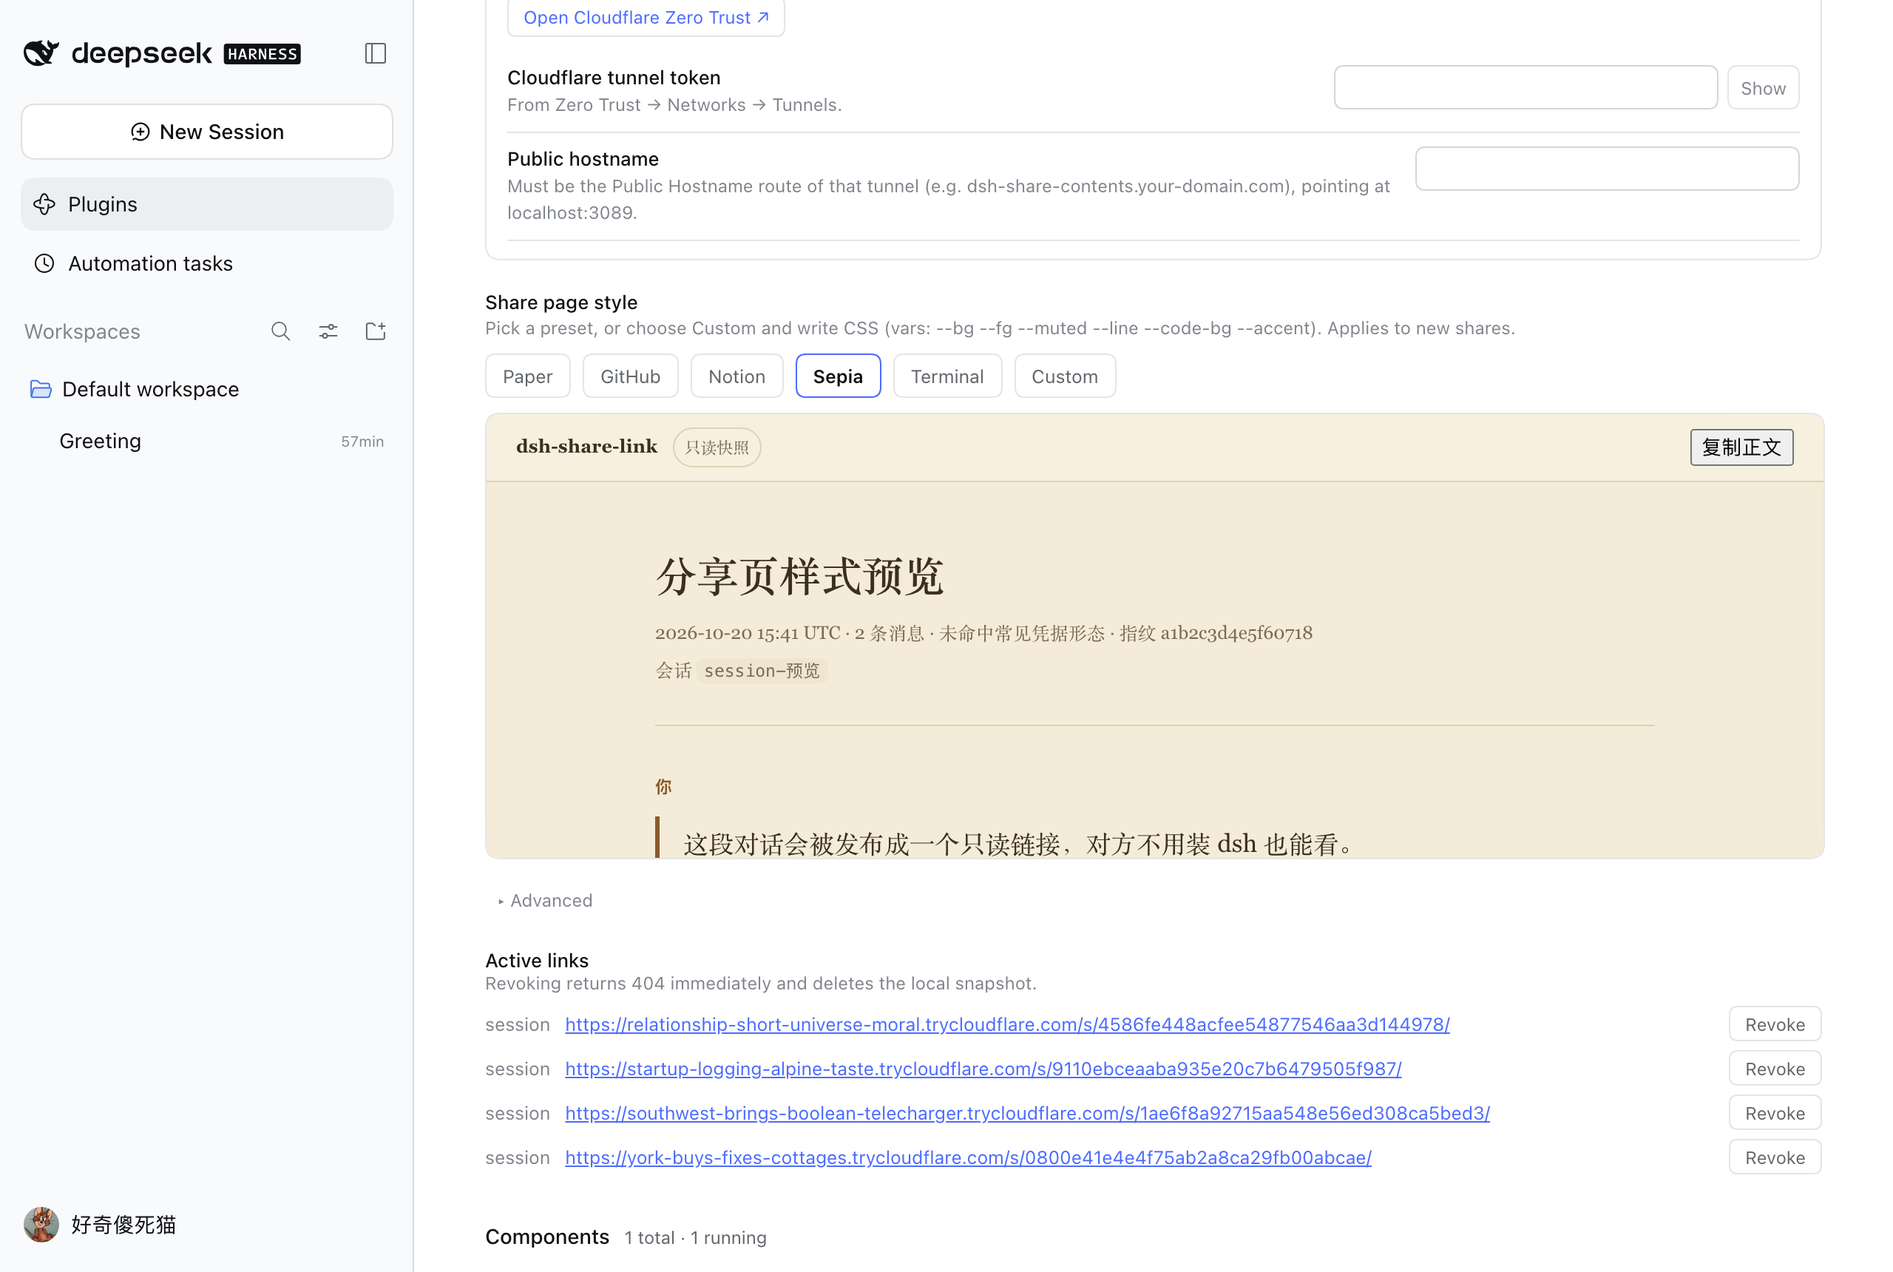
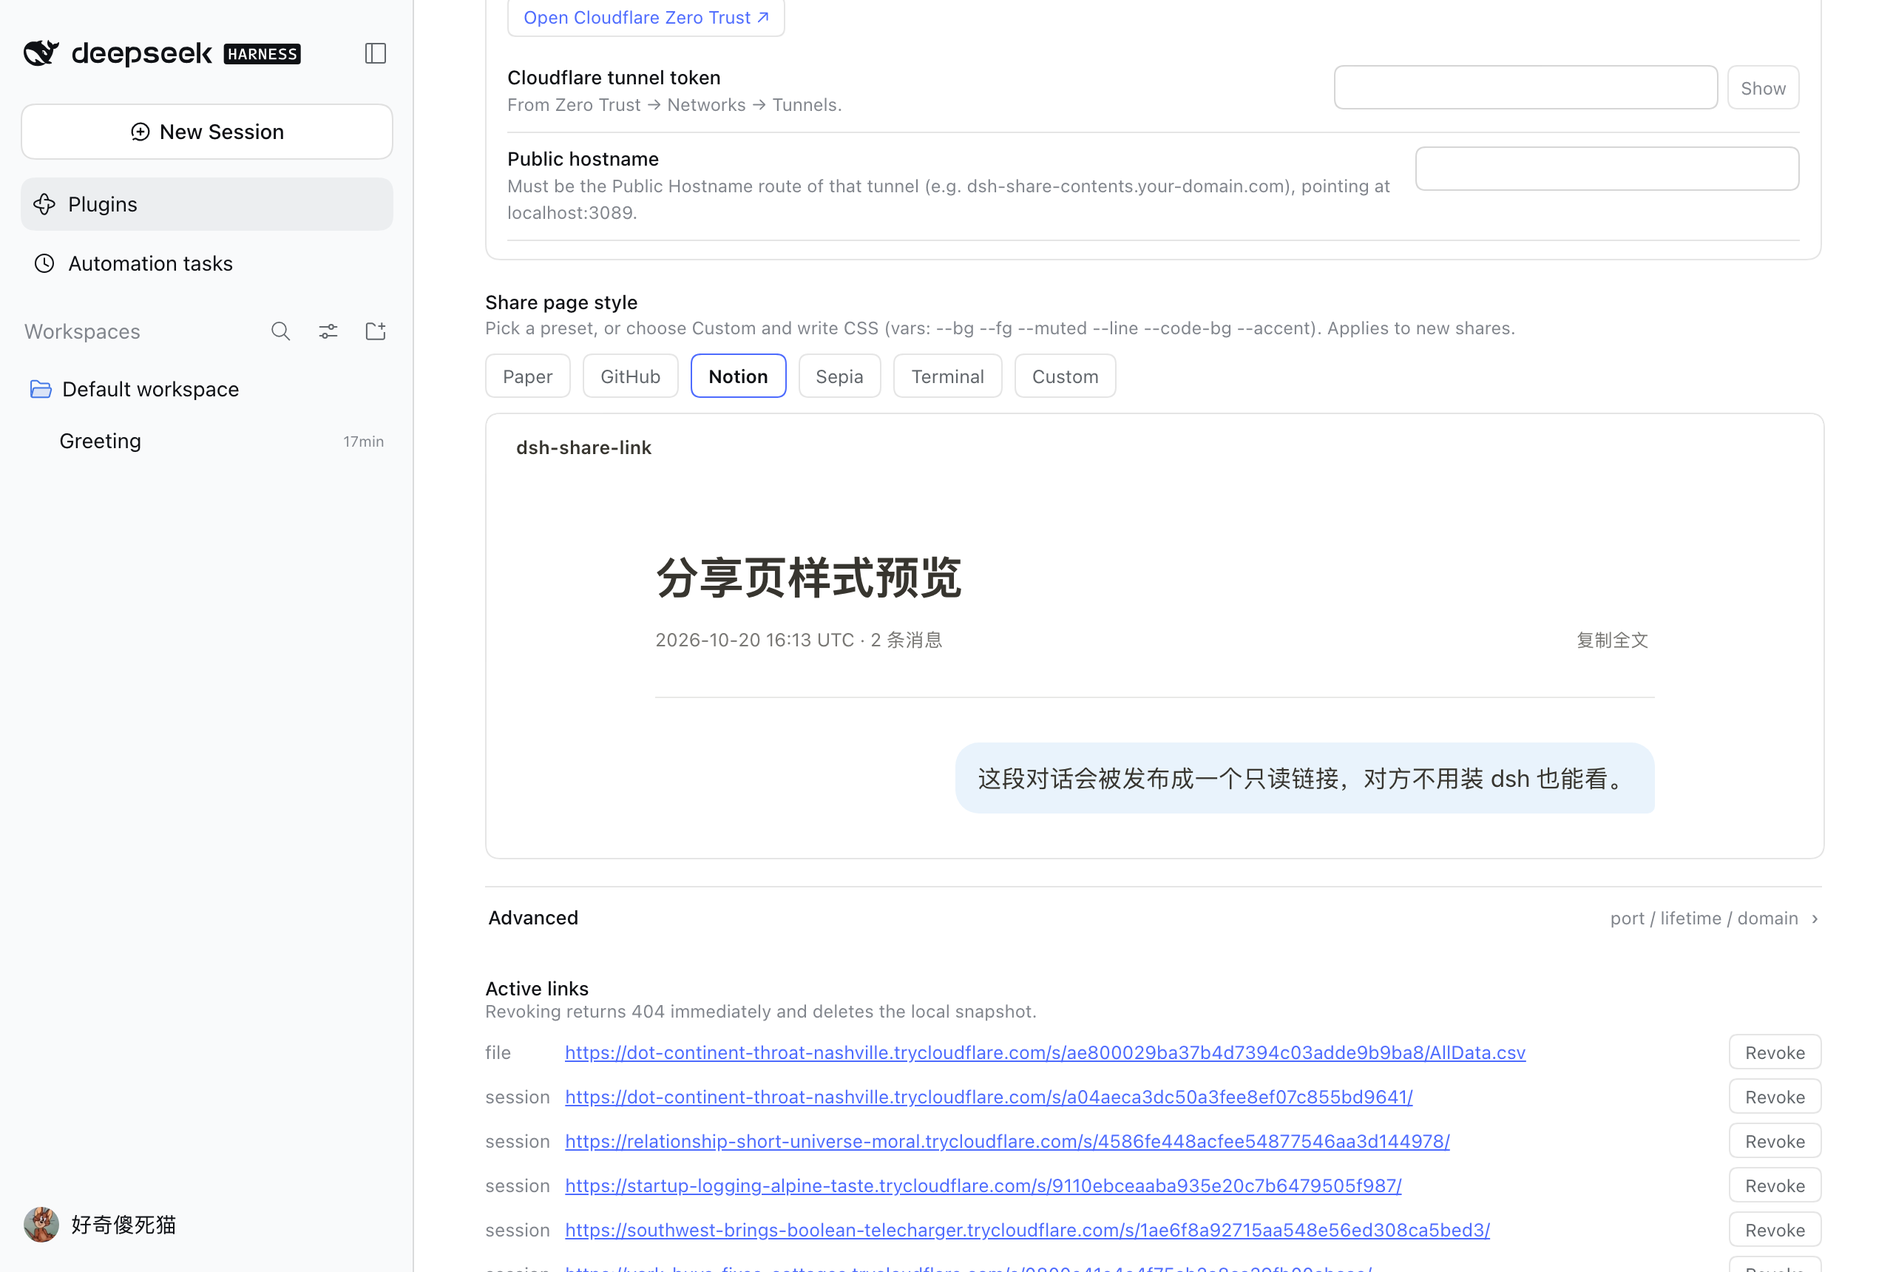
chore(release): 发布前整理
- 新增 LICENSE（MIT）与 package.json 发布元数据（keywords/repository/homepage/bugs）
- README 按发布规范重写：安装优先 GUI、五张实拍截图、通道/配置/安全/兼容性表格
- 截图全部用当前构建重拍，删除过期的 4 张
- 门禁：build → pack（1.3MB）→ 全新 DSH_HOME 安装 → boot 0 条激活失败

diff --git a/README.md b/README.md
@@ -1,157 +1,150 @@
 # dsh-share-link
 
-<p align="center">把一个产物（会话快照 / HTML / Markdown / 目录）发布成只读公网链接：一条命令出 URL，撤销即失效。</p>
+<p align="center">把一段对话或一个产物，发布成只读的公网链接——对方点开就能看，撤销后立即失效。</p>
+
+<p align="center">
+  <img alt="dsh" src="https://img.shields.io/badge/dsh-0.2.1--rc.1-blue">
+  <img alt="license" src="https://img.shields.io/badge/license-MIT-green">
+</p>
+
+## 30 秒安装
+
+**在 dsh web 里**：侧边栏 **Plugins → Add plugin**，输入 `@vlln/dsh-share-link`，点安装。
+
+**用 CLI**：
+
+```sh
+dsh plugin --profile web add @vlln/dsh-share-link
+# 装完重启 dsh web 生效
+```
+
+- **前置**：dsh `>= 0.2.0`；macOS / Linux
+- **零配置可用**：默认走云端快速隧道，首次分享会自动下载 `cloudflared`（约 50 MB，需要能访问 GitHub）
+- **卸载**：`dsh plugin --profile web remove @vlln/dsh-share-link`
+
+### 装好之后怎么确认
+
+- 侧边栏 **Plugins** 列表里出现 **Share Link**，点进去有一条绿色的 `Ready to share`
+- 打开任意会话，右上角 `···` 菜单里多一项 **分享会话**
 
 ## 为什么需要它
 
-dsh 是跑在本机的 harness，产物却经常要给别人看：一段对话要发给同事评审、一个 HTML 页面要在手机上打开、一份生成的报告要给客户。
+dsh 跑在本机，产物却经常要给外面的人看：一段对话要发给同事评审、一个 HTML 页面要在手机上打开、一份报告要给客户。
 
-现在你只有两条路，都不对：
+现在只有两条路，都不对：
 
-- **导出成文件再发**——对方收到的是附件，手机上打开体验差，也没有"同一地址随时更新"；
-- **把整个 dsh 穿透出去**——别人拿到的是你的**产品实例**（能下发指令、能看别的会话），而不是**这一个产物**。
+- **导出成文件再发**——对方拿到的是附件，手机上体验差，也没法"同一个地址随时更新"；
+- **把整个 dsh 穿透出去**——别人拿到的是你的**产品实例**（能下指令、能看别的会话），而不是**这一个产物**。
 
-这个插件补的是第三件事：**单产物 → 链接**。它只暴露一个静态目录，不代理 GUI、不提供写接口。链接的生命周期绑定在一个本地服务 + 一条 cloudflared 隧道上，进程停或点撤销，链接立刻 404。
-
-## 它长什么样
-
-会话右上角 `···` 菜单里多一项「分享会话…」（入口只有这一处，不额外占图标）；产物在文件预览的工具条上。
-
-![会话菜单里的分享项](docs/preview-menu.png)
-
-![会话分享：确认框与已生成的链接](docs/preview-session-share.png)
-
-![文件分享：把当前预览的文件发布成链接](docs/preview-file-share.png)
-
-对方打开是这样一份对话快照——**按对话排**：你的提问靠右成气泡，助手回复是正文流，每条回复下方可复制；没有多余的元信息噪音（不加载外部资源，内联脚本只服务于复制按钮；默认脱敏）：
-
-![只读快照页](docs/preview-snapshot.png)
-
-## 装
-
-```sh
-# 本地 tarball（本仓库 `pnpm build && pnpm pack` 的产物）
-dsh plugin --profile web add ./vlln-dsh-share-link-0.1.0.tgz
-
-# 发布到 npm 之后（或 git 源）
-dsh plugin --profile web add @vlln/dsh-share-link
-```
-
-装完**重启 `dsh web`** 才生效。
-
-首次分享公网链接时会自动把 `cloudflared` 下到 `$DSH_HOME/share-link/bin/`（macOS / Linux）；已有的话把它放进 `PATH` 或配置 `cloudflaredPath` 即可跳过下载。
+这个插件补的是第三件事：**单产物 → 链接**。它只暴露一个静态目录，在独立端口上跑只读服务，不代理 GUI、不提供写接口。链接的生命周期绑定在本地服务 + 一条隧道上——停服务或点撤销，链接立刻 404。
 
 ## 用起来是什么样
 
-**会话**：右上角 `···` → 「分享会话…」→ **选通道**（默认通道预选，未配好的通道置灰）→ 勾不勾"包含工具调用名称" → 生成链接。对方打开看到的是只读时间线：你的提问、助手的回答，没有工具结果正文，没有系统提示，没有其他会话。
+### 分享会话
 
-**产物**：文件预览（右侧栏）和交付物列表里的文件多一个「分享」按钮 → 直接发布这个文件。`.html` 挂在链接根路径；`.md` 会被渲染成可读页面（不是下载裸文本）；目录要求含 `index.html`。
+![会话菜单里的分享项](docs/preview-menu.png)
 
-**Agent 主动发**：对话里说"把这个页面分享出去"，agent 会调 `share_artifact`；说"把这段对话分享出去"会调 `share_session`，回复里直接给出链接和撤销指令。
+右上角 `···` → **分享会话** → 选通道 → 生成链接。
 
-生成后对话框里直接有 `Copy` / `Open` / `Revoke`：撤销是即时生效的（本地目录删掉 → 同一个 URL 立刻 404），不用去翻命令行。
+![分享弹窗](docs/preview-session-share.png)
 
-## 配置与管理：侧边栏 Plugins → Share Link
+弹窗里可以直接切换通道、选择是否保留工具调用名称；生成后能复制、打开、撤销。
 
-一个地方管完，**默认零配置可用**：
+对方打开是这样一份对话快照——你的提问靠右成气泡，助手回复是正文流，每条回复可单独复制：
 
-![设置卡：默认推荐快速隧道](docs/preview-settings.png)
+![分享页](docs/preview-snapshot.png)
 
-- 顶部一条状态：绿色「可以分享 · 默认通道」或黄色「还不能分享 · 缺什么」。
-- 「默认通道」是一个下拉框（和标签同一行），只决定**分享弹窗里预选哪个**；四个通道的配置并存，弹窗里随时换。
-- 「快速隧道」标着**推荐**：零配置，dsh 在跑就有链接。
-- 每个渠道一张可折叠的配置卡（Surge / 命名隧道），带就绪徽标；没配好的默认展开并给**编号步骤 + 官方入口**：
+### 分享产物
 
-![Surge 已就绪：什么都不用填](docs/preview-settings-surge.png)
+![文件分享](docs/preview-file-share.png)
 
-  本机跑过 `surge login`（凭据在 `~/.netrc`）或设了 `SURGE_TOKEN` 环境变量，Surge 就直接可用；
-  想改用 token 才点「Use a token instead」展开输入框。
+右侧栏打开文件 → 工具条上的 **Share**。`.html` 挂在链接根路径；`.md` 渲染成可读页面；目录会生成文件列表页。
 
-- 只有该渠道需要的字段才出现；token 类字段默认**以密码形式遮蔽**，旁边「Show / Hide」切换明文。其余字段收进折叠的**高级设置**（端口 / 有效期 / 域名后缀）。
-- 参数**即时写入**：失焦或回车就生效，没有"保存"按钮，也不需要在命令行改 YAML。
-- 下方「已发布的链接」列出类型、可点开的 URL 和**撤销**——撤销后服务端立刻 404。
+### 配置与样式
 
-## 没有账号 / 没配置时怎么办
+![设置卡](docs/preview-settings.png)
 
-分享框打开时会先问一次通道状态（`GET /api/share-link/status`）。**没就绪就直接给引导**，而不是让你点了才失败：
+侧边栏 **Plugins → Share Link**：
 
-![通道未就绪时的引导](docs/preview-guide.png)
-
-- 标题 + 一句解释 + **可点的官方入口**（`surge.sh` / Cloudflare Zero Trust / cloudflared 下载页）；
-- 一条可复制的命令（`npm i -g surge && surge login`）；
-- 未就绪时「创建链接」按钮会禁用并改成「先完成上面的配置」，不会让你白点一次；
-- 真失败了（比如 token 过期）也落到同一个引导面板，原文错误不再糊在红字里；
-- 公网隧道挂了会**明确降级**：链接变成局域网地址，并在结果里标出来。
-
-## 分享页样式：5 个预设 + 自定义 CSS
+| 区域 | 它回答什么问题 |
+|---|---|
+| 顶部状态条 | 现在能不能分享、缺什么 |
+| 默认通道（下拉） | 分享弹窗默认选哪个通道 |
+| 渠道配置卡 | 每个通道自己的参数，互不排斥；没配好的自动展开并给步骤与官方入口 |
+| 分享页样式 | 5 个预设 + 自定义 CSS，带实时预览 |
+| 已发布的链接 | 哪些还活着、一键撤销 |
 
 ![样式选择与实时预览](docs/preview-theme.png)
 
-| 预设 | 参考 | 特点 |
+| 预设 | 参考 | 观感 |
 |---|---|---|
-| 暖纸（默认） | 长文阅读 | 米白底、无衬线、蓝色强调，适合中文长对话 |
-| GitHub | [GitHub 文档/README 排版](https://docs.github.com) | 纯白、细边框、系统字体、蓝色链接 |
-| Notion | [Notion 页面](https://www.notion.so) | 大标题、无边框、超大留白、引文前置「“」 |
-| 散文 | 传统阅读/书籍排版 | 衬线（Georgia / 宋体）、米色、行高 1.95 |
-| 终端 | 代码编辑器暗色 | 等宽字体、深底、绿色强调 |
+| 暖纸（默认） | 长文阅读 | 米白底、无衬线、蓝色强调 |
+| GitHub | GitHub 文档排版 | 纯白、细边框、系统字体 |
+| Notion | Notion 页面 | 大标题、无边框、超大留白 |
+| 散文 | 书籍排版 | 衬线、米色、行高 1.95 |
+| 终端 | 编辑器暗色 | 等宽字体、深底、绿色强调 |
 
-- 选完**立刻在设置卡里预览**（同一个渲染器、同一个 iframe，不是另画一张示意图）。
-- 选「自定义」可以写 CSS，覆盖这些变量即可改配色与字体：`--bg` `--fg` `--muted` `--line` `--code-bg` `--accent` `--star`。
-- 自定义 CSS **追加在预设之后**，所以可以只写增量（例如 `body { letter-spacing: .01em }`）。
-- 样式在**发布时固化**：改样式只影响之后的新分享，已发布的快照不会变（这正是"快照"的含义）。
+选「自定义」可以写 CSS 覆盖这些变量：`--bg` `--fg` `--muted` `--line` `--code-bg` `--accent` `--star`。
 
 ## 能力面
 
 | 工具 | 说明 |
-| --- | --- |
+|---|---|
 | `share_session` | 把当前会话发布成只读快照（脱敏、去掉注入上下文） |
-| `share_artifact` | 发布本地文件或目录；目录需含 `index.html`，单个 `.html` 挂在链接根路径 |
-| `share_list` | 列出活跃链接、类型、到期时间 |
-| `share_revoke` | 按 id 撤销，链接立即失效、快照文件从磁盘删除 |
+| `share_artifact` | 发布本地文件或目录；可指定通道 |
+| `share_list` | 列出活跃链接、类型与到期时间 |
+| `share_revoke` | 按 id 撤销，链接立即失效、快照从磁盘删除 |
 
-配置也可以在 **Plugins → Share Link** 里改（推荐，即时生效）；下面是同一套字段：
+## 通道
 
-| 配置项 | 默认 | 说明 |
-| --- | --- | --- |
-| `provider` | `tunnel` | `tunnel` = 公网 cloudflared（可撤销）；`lan` = 只给同一局域网；`surge` = Surge 持久域名 |
-| `port` | `0` | 只读分享服务端口，0 = 随机（命名隧道模式下自动用 3089） |
-| `ttlHours` | `168` | 链接默认有效期（小时）；`surge` 通道靠 `revoke` 撤销，不看到期 |
+| 通道 | 地址形态 | 需要什么 | 撤销 |
+|---|---|---|---|
+| 快速隧道（推荐） | `https://随机词.trycloudflare.com` | 无（首次自动下载 cloudflared） | 停服务 / 撤销 |
+| Surge | `https://dsh-share-<id>.surge.sh` | 免费 Surge 账号（邮箱） | `surge teardown` |
+| 命名隧道 | `https://<你的域名>/s/<id>/` | Cloudflare 账号 + **托管在 CF 的域名** | 停服务 / 撤销 |
+| 局域网 | `http://<内网 IP>:<port>/s/<id>/` | 无 | 撤销 |
+
+> 命名隧道本身不自带公网域名：必须在 Cloudflare 的 Routes 里加一条 Public Hostname 指向 `localhost:3089`。没有域名就用 Surge 或快速隧道。
+
+## 配置
+
+| 项 | 默认 | 说明 |
+|---|---|---|
+| `defaultChannel` | `quick` | 弹窗默认通道：`quick` / `surge` / `named` / `lan` |
+| `port` | `0` | 只读服务端口，0 = 随机；命名隧道模式自动用 3089 |
+| `ttlHours` | `168` | 默认有效期（小时）；撤销是立即失效 |
+| `pageTheme` | `paper` | 分享页风格：`paper` / `github` / `notion` / `sepia` / `terminal` / `custom` |
+| `pageThemeCss` | 空 | 自定义 CSS，追加在预设之后 |
+| `surgeToken` / `surgeLogin` / `surgeDomain` / `surgePrefix` | 空 | Surge 通道参数 |
+| `tunnelToken` / `tunnelHostname` | 空 | 命名隧道参数 |
 | `cloudflaredPath` | 空 | 已有 cloudflared 的路径 |
-| `tunnelToken` / `tunnelHostname` | 空 | 填了就切 Cloudflare **命名隧道**，地址固定为 `https://<hostname>` |
-| `surgeToken` / `surgeDomain` / `surgePrefix` | 空 / 空 / `dsh-share` | Surge 通道：域名是 `<prefix>-<id8>.<surgeDomain 或 surge.sh>`，`revoke` 会调 `surge teardown` |
 
-链接形如 `https://xxx.trycloudflare.com/s/<32 位 token>/`：token 随机、不可枚举；响应带 `no-store` 与 `noindex`，撤销后不会再被缓存命中。
+全部在 **Plugins → Share Link** 里改，即时生效（不需要重启）；也可以在 profile patch 的 `config:` 里写。
 
 ## 安全与数据
 
-- 分享服务只绑 `127.0.0.1`，只认 `GET /s/<token>/…`；**不碰** dsh 的 3080 端口，也没有任何写接口。
-- 快照默认脱敏：常见凭据形态（`sk-*`、`ghp_*`、`AKIA*`、`Bearer …`、`api_key: …`）与绝对家目录路径会被替换。**这是尽力而为，不是保证**——业务机密、客户名、内网 IP 挡不住，对外分享前请自己过一眼。
-- 会话快照只保留人类输入与助手可见文本；工具调用默认只留名字，工具结果正文、思考块、系统提示一律不投影。
-- 分享页顶栏有「**复制正文**」（复制整段内容，不是链接），代码块自带「复制」按钮；页面底部有一张 **GitHub Star** 卡片。两者都是页面内联脚本，不请求任何外部域名。
-- 会话数据、分享文件都在 `$DSH_HOME/share-link/`，删除即撤销；`meta` 索引在 `index.json`。
-- 公网隧道 = 把一个静态目录暴露到互联网。用完 `share_revoke` 或停掉 dsh web，链接立刻失效。
+- **只读**：分享服务只绑 `127.0.0.1`，只响应 `GET /s/<token>/…`，没有写接口，不碰 dsh 的 3080。
+- **脱敏**：常见凭据形态（`sk-*`、`ghp_*`、`AKIA*`、`Bearer …`、`api_key: …`）与绝对家目录路径会被替换；这是尽力而为，**不是保证**——业务机密、客户名、内网 IP 挡不住，分享前请自己过一眼。
+- **只留对话**：工具结果正文、思考块、系统提示一律不投影；harness 注入的运行时上下文会被过滤。
+- **凭据**：只作为子进程环境变量使用（`SURGE_TOKEN`），不写日志、不入库。
+- **快照是静态的**：不加载任何外部资源；内联脚本只服务于复制按钮。
 
 ## 已知限制
 
-- 只支持 macOS / Linux（cloudflared 下载走 `tar`）。
-- **命名隧道要求域名托管在 Cloudflare**：命名隧道本身不自带公网域名，必须在 Routes 里加一条 Published application（`<子域>.<你的域名>` → `localhost:3089`）；账号里没有域名时 `Add route` 的 Domain 下拉是空的，这条通道就用不了——改用 Surge 或快速隧道。
-- `surge` 通道需要本机有 `surge`（或在 `PATH` 上，否则退回 `npx --yes surge`）并已登录；`tunnelToken` 模式需要隧道在 Cloudflare 侧指向本机固定端口（默认 3089）。
-- 目录分享没有 `index.html` 时会生成文件列表页（递归列出相对路径）；列表页只列文件，不列空目录。
-- 快速隧道的域名每次重启都会变；要固定地址就配 `tunnelToken` + `tunnelHostname` 走命名隧道。
-- 撤销作用在**这份快照**上；已把网页另存或截图的人不受影响。
-- 单次分享上限 100 MB / 2000 个文件。
-- cloudflared 不可用时会降级成局域网链接（`provider` 仍显示 `lan`），不会静默失败。
+- 只支持 macOS / Linux。
+- 快速隧道的域名每次重启都会变；要固定地址请用 Surge 或命名隧道。
+- 样式在**发布时固化**：改风格只影响之后的新分享。
+- 目录入口页只列文件，不列空目录；单次分享上限 100 MB / 2000 个文件。
+- 会话快照只含「人类输入 + 助手可见文本」，没有工具调用详情视图。
 
 ## 兼容性
 
 | dsh 版本 | 状态 |
-| --- | --- |
-| `0.2.1-rc.1` | ✅ 已验证（2026-10-20）：装包、boot、发布产物、发布会话、撤销、公网访问；真实浏览器逐屏点过 `···` 菜单项与文件预览两个入口（截图见上） |
-| 同上 · `surge` 通道 | ✅ 逻辑实测（2026-10-20，**用桩可执行文件**验证调用与撤销顺序，未接真实 Surge 账号） |
-| 同上 · 命名隧道 | ✅ 逻辑实测（2026-10-20，**用桩 cloudflared** 验证 token 参数、固定端口与 URL 组装，未接真实 Cloudflare 隧道） |
-| 其它版本 | ⚠ 未验证——升级 dsh 后若分享入口不见，多半是 slot 名变了（`conversation.session.header.utilities` / `sidebar.right.tab.document.actions`），或 `dsh-tools` 的 `defineTool` 契约变了 |
-
-> `···` 菜单项是**克隆既有菜单项**注入的（宿主没有菜单项插槽）。如果哪天官方菜单结构变了，这一项会静默消失，header 上的分享图标仍在——这是有意的降级路径，不是崩溃。
+|---|---|
+| `0.2.1-rc.1` | ✅ 已验证（2026-10-20）：装包、boot、会话/文件发布、撤销、真实公网访问；两个入口都在真实浏览器里逐屏点过 |
+| 同上 · Surge 通道 | ✅ 真实账号验证：发布 → 公网 200 → `surge teardown` → 404 |
+| 同上 · 命名隧道 | ⚠ 隧道可连、参数与端口正确；未取得公网域名，公开访问这一段未验证 |
+| 其它版本 | ⚠ 未验证——升级后若入口不出现，多半是 slot 名或 `defineTool` 契约变了 |
 
 ## 插件管理
 
